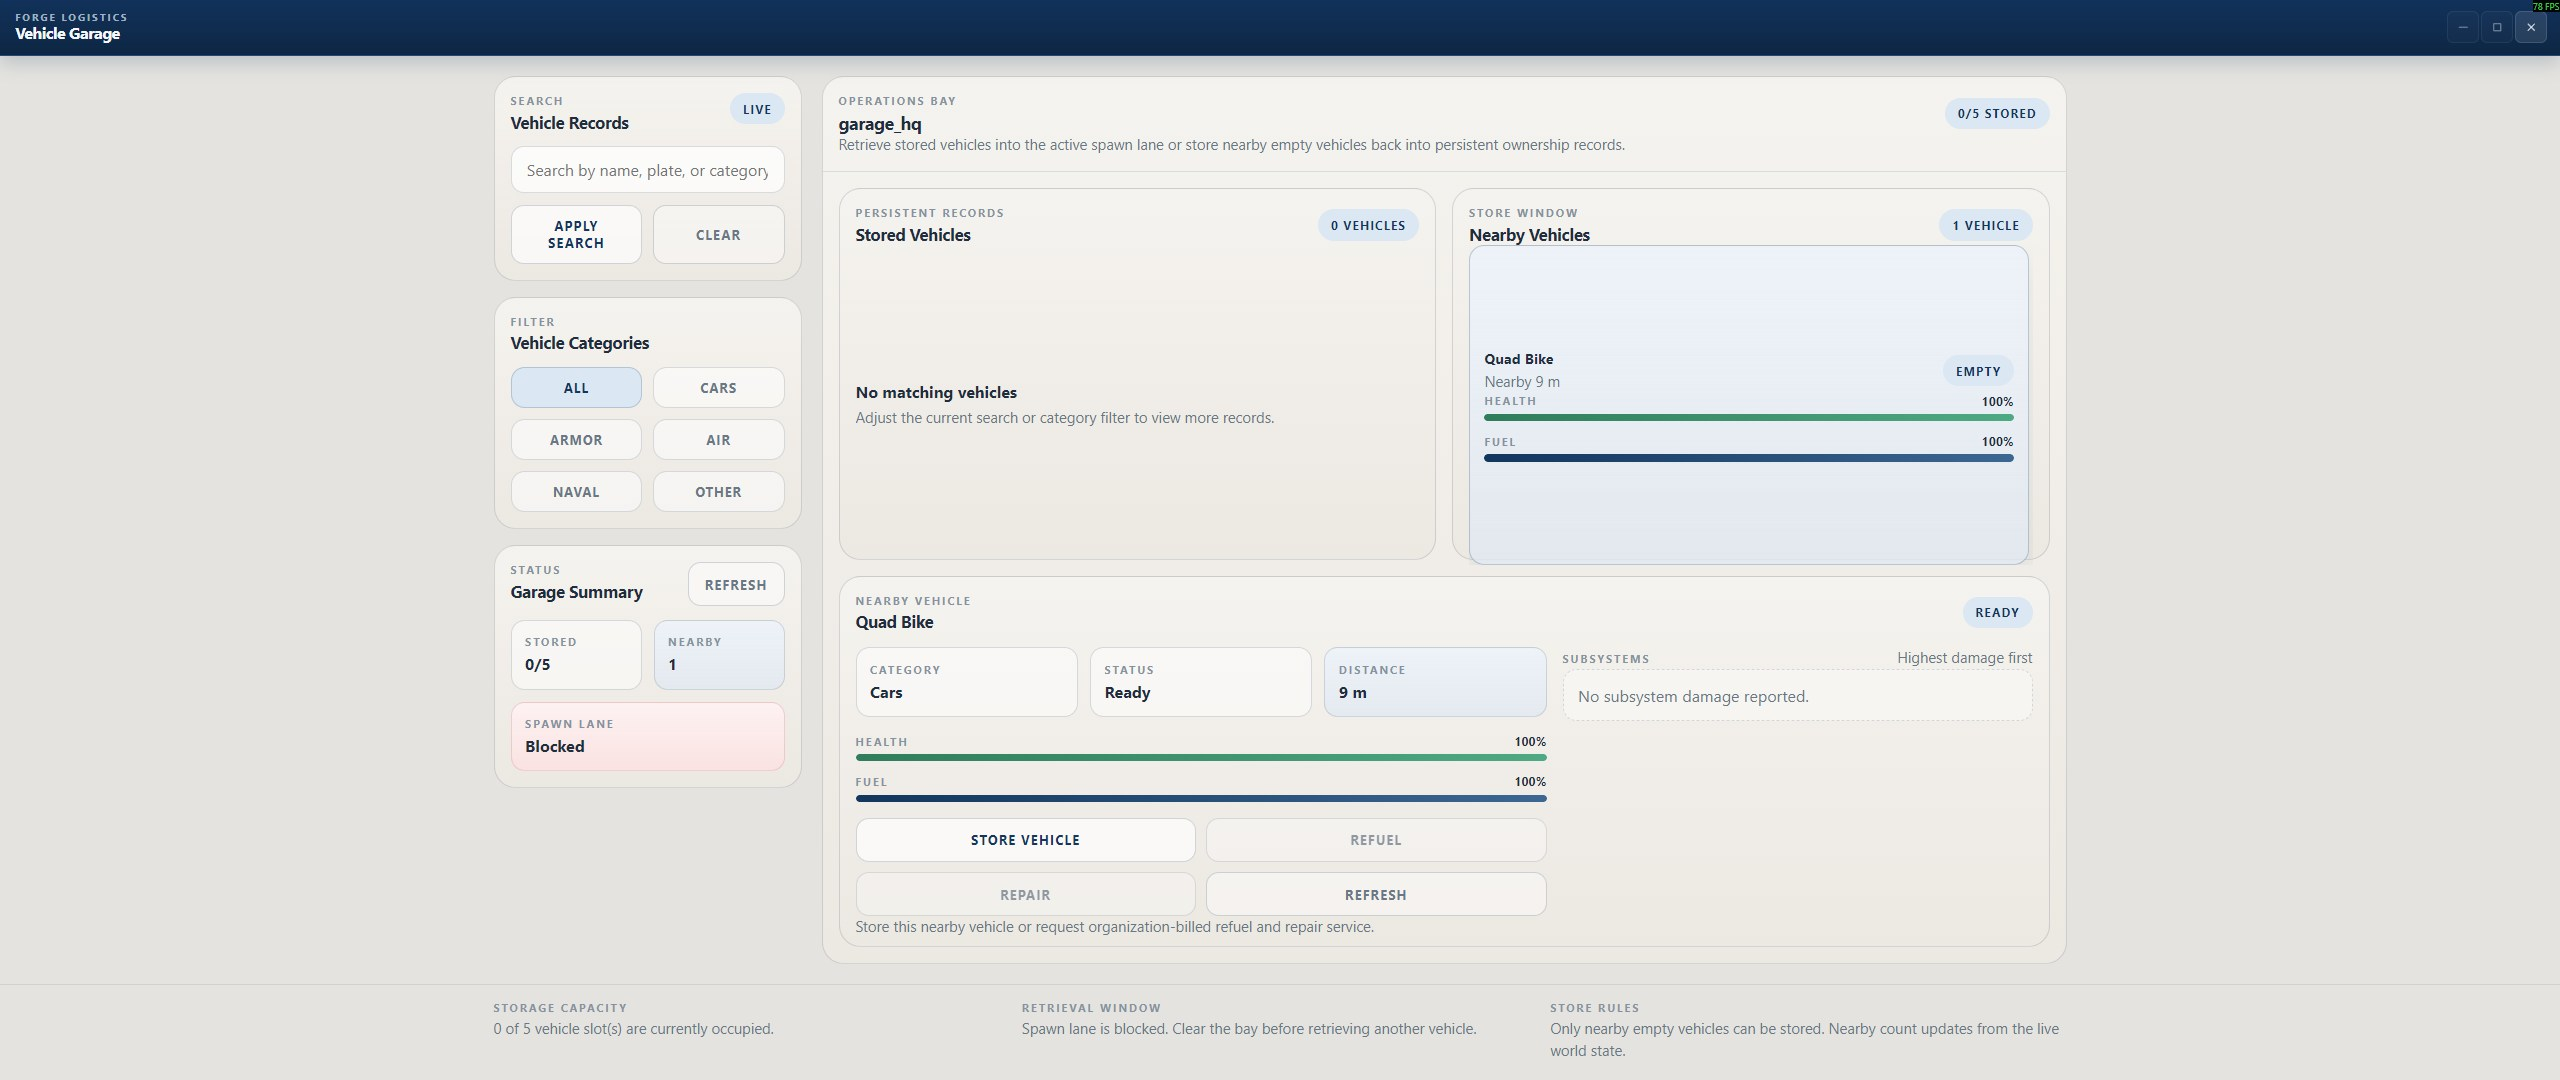
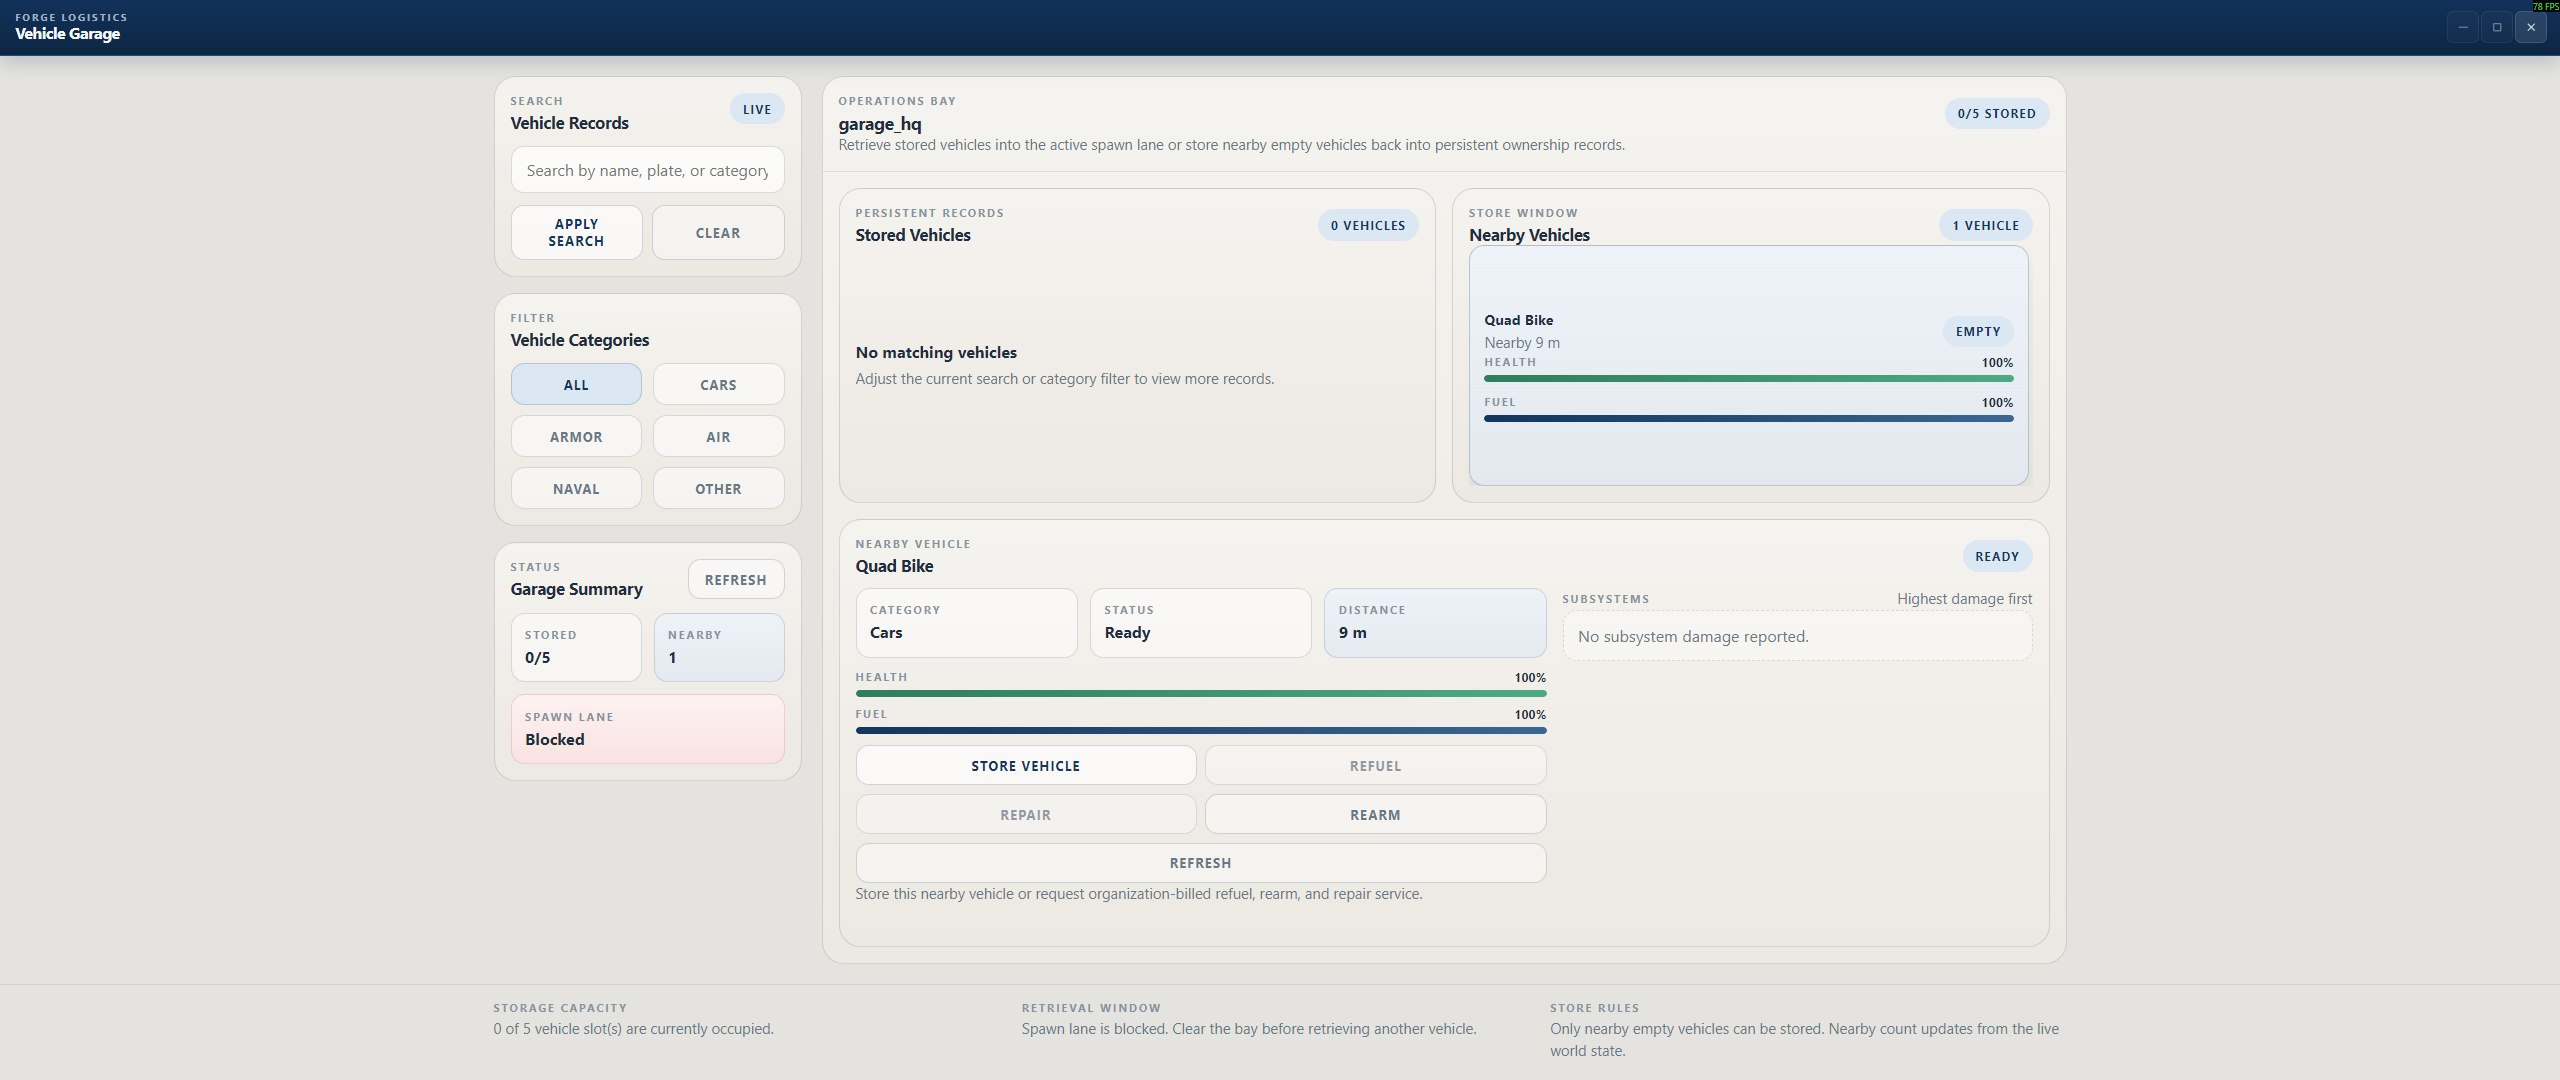
fix: adjust CSS styles for improved layout and responsiveness

diff --git a/arma/client/addons/garage/ui/src/styles.css b/arma/client/addons/garage/ui/src/styles.css
@@ -163,8 +163,8 @@ button:disabled {
 
 .garage-scroll-body {
     flex: 1;
-    min-height: 20rem;
-    max-height: 24rem;
+    min-height: clamp(10rem, 20vh, 16rem);
+    max-height: clamp(12rem, 25vh, 19rem);
     overflow: auto;
     display: grid;
     gap: 0.8rem;
@@ -172,7 +172,7 @@ button:disabled {
 }
 
 .garage-detail-body {
-    padding-top: 0.95rem;
+    padding-top: 0.75rem;
 }
 
 .garage-detail-grid {
@@ -195,7 +195,7 @@ button:disabled {
 
 .garage-detail-meta {
     grid-template-columns: repeat(3, minmax(0, 1fr));
-    margin-bottom: 1rem;
+    margin-bottom: 0.7rem;
 }
 
 .garage-summary-grid {
@@ -209,7 +209,7 @@ button:disabled {
 .garage-search-actions,
 .garage-action-row {
     grid-template-columns: repeat(2, minmax(0, 1fr));
-    gap: 0.65rem;
+    gap: 0.55rem;
 }
 
 .garage-category-grid {
@@ -235,8 +235,8 @@ button:disabled {
 
 .garage-meter-stack {
     display: grid;
-    gap: 0.75rem;
-    margin-bottom: 1rem;
+    gap: 0.55rem;
+    margin-bottom: 0.7rem;
 }
 
 .garage-eyebrow,
@@ -451,8 +451,8 @@ button:disabled {
 }
 
 .garage-btn {
-    min-height: 2.75rem;
-    padding: 0.72rem 1rem;
+    min-height: 2.5rem;
+    padding: 0.62rem 1rem;
     border-radius: 0.8rem;
     border: 1px solid var(--garage-border-strong);
     font-size: 0.82rem;

diff --git a/arma/client/addons/garage/ui/_site/garage-ui.css b/arma/client/addons/garage/ui/_site/garage-ui.css
@@ -1,1 +1,1 @@
-:root{--garage-shell-bg:#e4e3df;--garage-surface:#f5f3ef;--garage-surface-alt:#ece8e2;--garage-border:#4a5b6e33;--garage-border-strong:#142e4f2e;--garage-text-main:#1f2d3d;--garage-text-muted:#6a7787;--garage-text-subtle:#8792a0;--garage-accent:#12365d;--garage-accent-soft:#dbe7f3;--garage-accent-line:#12365d1f;--garage-warning:#8f5f26}*{box-sizing:border-box}html,body{width:100%;height:100%;margin:0;overflow:hidden}body{color:var(--garage-text-main);background:var(--garage-shell-bg);font-family:Segoe UI,Trebuchet MS,sans-serif}button,input{font:inherit}button{cursor:pointer}button:disabled{cursor:not-allowed;opacity:.72}:focus-visible{outline-offset:2px;outline:2px solid #12365d59}#app{width:100%;height:100%}.garage-shell{background:var(--garage-shell-bg);flex-direction:column;width:100%;height:100%;display:flex;overflow:hidden}.garage-layout{flex:1;grid-template-columns:308px minmax(0,1fr);gap:1.25rem;width:min(100%,1613px);min-height:0;margin:0 auto;padding:1.25rem;display:grid}.garage-sidebar,.garage-main{flex-direction:column;gap:1rem;min-height:0;display:flex}.garage-main{overflow:hidden}.garage-module,.garage-panel,.garage-card{background:linear-gradient(180deg, var(--garage-surface) 0%, var(--garage-surface-alt) 100%);border:1px solid var(--garage-border);border-radius:1.35rem}.garage-module,.garage-card{padding:1rem}.garage-module{align-content:start;gap:.85rem;display:grid}.garage-panel{flex-direction:column;flex:auto;min-height:0;display:flex;overflow:hidden}.garage-panel-header,.garage-module-header,.garage-card-header{justify-content:space-between;align-items:center;gap:1rem;display:flex}.garage-panel-header{padding:1rem 1rem 0}.garage-module-header{align-items:flex-start}.garage-panel-intro{border-bottom:1px solid var(--garage-accent-line);padding:0 1rem 1rem}.garage-dashboard{flex:1;grid-template-columns:minmax(0,1fr) minmax(0,1fr);align-items:stretch;gap:1rem;min-height:0;padding:1rem;display:grid}.garage-list-card,.garage-detail-card{flex-direction:column;min-height:0;display:flex}.garage-detail-card{grid-column:1/-1}.garage-scroll-body{flex:1;gap:.8rem;min-height:20rem;max-height:24rem;padding-right:.2rem;display:grid;overflow:auto}.garage-detail-body{padding-top:.95rem}.garage-detail-grid{grid-template-columns:minmax(0,1.25fr) minmax(280px,.85fr);gap:1rem;display:grid}.garage-detail-meta,.garage-summary-grid,.garage-search-actions,.garage-category-grid,.garage-action-row,.garage-inline-meters,.garage-hitpoint-grid,.garage-footer{gap:.75rem;display:grid}.garage-detail-meta{grid-template-columns:repeat(3,minmax(0,1fr));margin-bottom:1rem}.garage-summary-grid{grid-template-columns:repeat(2,minmax(0,1fr))}.garage-summary-grid>:last-child{grid-column:1/-1}.garage-search-actions,.garage-action-row,.garage-category-grid{grid-template-columns:repeat(2,minmax(0,1fr));gap:.65rem}.garage-action-refresh{grid-column:1/-1}.garage-footer-bar{border-top:1px solid #12365d1a;width:100%}.garage-footer{grid-template-columns:repeat(3,minmax(0,1fr));width:min(100%,1613px);margin:0 auto;padding:.95rem 1.25rem 1.15rem}.garage-meter-stack{gap:.75rem;margin-bottom:1rem;display:grid}.garage-eyebrow,.garage-footer-title,.garage-stat-label,.garage-meter-label,.garage-hitpoint-selection{letter-spacing:.18em;text-transform:uppercase;color:var(--garage-text-subtle);font-size:.68rem;font-weight:700}.garage-title,.garage-section-title{letter-spacing:-.02em;color:var(--garage-text-main);margin:.16rem 0 0;font-weight:700}.garage-title{font-size:1.1rem}.garage-section-title{font-size:1.05rem}.garage-copy,.garage-detail-note,.garage-empty-copy,.garage-footer-copy,.garage-vehicle-meta,.garage-detail-caption{color:var(--garage-text-muted);margin:0;font-size:.92rem;line-height:1.48}.garage-pill,.garage-badge{letter-spacing:.1em;text-transform:uppercase;background:var(--garage-accent-soft);color:var(--garage-accent);border-radius:999px;justify-content:center;align-items:center;padding:.48rem .8rem;font-size:.74rem;font-weight:700;display:inline-flex}.garage-badge.is-warning{color:var(--garage-warning);background:#f6e2c1e0}.garage-search-form{gap:.75rem;display:grid}.garage-search-input{border:1px solid var(--garage-border);width:100%;height:2.9rem;color:var(--garage-text-main);background:#ffffffbf;border-radius:.8rem;padding:0 .95rem}.garage-stat-card{border:1px solid var(--garage-border);background:#ffffff7a;border-radius:.85rem;flex-direction:column;gap:.3rem;min-width:0;padding:.85rem;display:flex}.garage-stat-card.is-accent{background:linear-gradient(#edf3f9eb 0%,#dfe8f2b8 100%)}.garage-stat-card.is-danger{background:linear-gradient(#fef2f2f2 0%,#fce1e1d1 100%);border-color:#dc979761}.garage-stat-value{color:var(--garage-text-main);overflow-wrap:anywhere;word-break:break-word;font-size:1rem;font-weight:700;line-height:1.3}.garage-chip{border:1px solid var(--garage-border);min-height:2.6rem;color:var(--garage-text-muted);letter-spacing:.08em;text-transform:uppercase;background:#ffffff85;border-radius:.85rem;padding:.68rem .9rem;font-size:.8rem;font-weight:700}.garage-chip.is-active{background:var(--garage-accent-soft);color:var(--garage-accent);border-color:#12365d33}.garage-vehicle-item{border:1px solid var(--garage-border);width:100%;color:inherit;text-align:left;background:#ffffff7a;border-radius:.95rem;padding:.9rem}.garage-vehicle-item.is-selected{background:linear-gradient(#edf3f9f5 0%,#dfe8f2bd 100%);border-color:#12365d3d;box-shadow:0 16px 26px #12365d14}.garage-vehicle-item-head,.garage-meter-label-row,.garage-subsystem-header,.garage-hitpoint-row{justify-content:space-between;align-items:center;gap:.75rem;display:flex}.garage-vehicle-copy,.garage-hitpoint-copy,.garage-footer-block{flex-direction:column;gap:.18rem;min-width:0;display:flex}.garage-vehicle-title,.garage-hitpoint-name,.garage-hitpoint-value{color:var(--garage-text-main);font-size:.9rem;font-weight:700}.garage-meter{gap:.32rem;display:grid}.garage-meter-track{background:#12365d14;border-radius:999px;width:100%;height:.45rem;overflow:hidden}.garage-meter-value{color:var(--garage-text-main);font-size:.78rem;font-weight:700}.garage-meter-fill{border-radius:inherit;height:100%;display:block}.garage-meter-fill.is-health{background:linear-gradient(90deg,#2f7d5b 0%,#4eaa82 100%)}.garage-meter-fill.is-fuel{background:linear-gradient(90deg,#12365d 0%,#3c6792 100%)}.garage-btn{border:1px solid var(--garage-border-strong);letter-spacing:.08em;text-transform:uppercase;border-radius:.8rem;min-height:2.75rem;padding:.72rem 1rem;font-size:.82rem;font-weight:700}.garage-btn-primary{color:var(--garage-accent);background:#ffffffad}.garage-btn-primary:hover{background:#dbe7f3e0}.garage-btn-secondary{color:var(--garage-text-muted);background:#ffffff6b}.garage-btn-secondary:hover{color:var(--garage-text-main);background:#fff9}.garage-hitpoint-row{border:1px solid var(--garage-border);background:#ffffff85;border-radius:.85rem;padding:.72rem .78rem}.garage-detail-empty,.garage-empty-state{flex-direction:column;justify-content:center;align-items:flex-start;min-height:100%;display:flex}.garage-empty-title{color:var(--garage-text-main);margin:0 0 .35rem;font-size:1rem;font-weight:700}.garage-empty-inline{border:1px dashed var(--garage-border);color:var(--garage-text-muted);background:#ffffff5c;border-radius:.85rem;padding:.9rem}.garage-toast-stack{z-index:10;flex-direction:column;gap:.65rem;display:flex;position:fixed;top:1.2rem;right:1.5rem}.garage-toast{border:1px solid var(--garage-border);background:#fff;border-radius:.9rem;max-width:24rem;padding:.85rem 1rem;font-size:.92rem;box-shadow:0 14px 28px #10223824}.garage-toast.is-success{color:#166534;background:#ecfdf5;border-color:#bbf7d0}.garage-toast.is-error{color:#991b1b;background:#fef2f2;border-color:#fecaca}@media (width<=1440px){.garage-layout{grid-template-columns:288px minmax(0,1fr)}.garage-detail-grid{grid-template-columns:1fr}}@media (width<=1120px){.garage-layout{grid-template-columns:1fr;overflow:auto}.garage-main,.garage-sidebar{min-height:auto}.garage-dashboard{grid-template-columns:1fr}.garage-detail-card{grid-column:auto}.garage-scroll-body{min-height:16rem;max-height:none}.garage-footer{grid-template-columns:1fr}}
+:root{--garage-shell-bg:#e4e3df;--garage-surface:#f5f3ef;--garage-surface-alt:#ece8e2;--garage-border:#4a5b6e33;--garage-border-strong:#142e4f2e;--garage-text-main:#1f2d3d;--garage-text-muted:#6a7787;--garage-text-subtle:#8792a0;--garage-accent:#12365d;--garage-accent-soft:#dbe7f3;--garage-accent-line:#12365d1f;--garage-warning:#8f5f26}*{box-sizing:border-box}html,body{width:100%;height:100%;margin:0;overflow:hidden}body{color:var(--garage-text-main);background:var(--garage-shell-bg);font-family:Segoe UI,Trebuchet MS,sans-serif}button,input{font:inherit}button{cursor:pointer}button:disabled{cursor:not-allowed;opacity:.72}:focus-visible{outline-offset:2px;outline:2px solid #12365d59}#app{width:100%;height:100%}.garage-shell{background:var(--garage-shell-bg);flex-direction:column;width:100%;height:100%;display:flex;overflow:hidden}.garage-layout{flex:1;grid-template-columns:308px minmax(0,1fr);gap:1.25rem;width:min(100%,1613px);min-height:0;margin:0 auto;padding:1.25rem;display:grid}.garage-sidebar,.garage-main{flex-direction:column;gap:1rem;min-height:0;display:flex}.garage-main{overflow:hidden}.garage-module,.garage-panel,.garage-card{background:linear-gradient(180deg, var(--garage-surface) 0%, var(--garage-surface-alt) 100%);border:1px solid var(--garage-border);border-radius:1.35rem}.garage-module,.garage-card{padding:1rem}.garage-module{align-content:start;gap:.85rem;display:grid}.garage-panel{flex-direction:column;flex:auto;min-height:0;display:flex;overflow:hidden}.garage-panel-header,.garage-module-header,.garage-card-header{justify-content:space-between;align-items:center;gap:1rem;display:flex}.garage-panel-header{padding:1rem 1rem 0}.garage-module-header{align-items:flex-start}.garage-panel-intro{border-bottom:1px solid var(--garage-accent-line);padding:0 1rem 1rem}.garage-dashboard{flex:1;grid-template-columns:minmax(0,1fr) minmax(0,1fr);align-items:stretch;gap:1rem;min-height:0;padding:1rem;display:grid}.garage-list-card,.garage-detail-card{flex-direction:column;min-height:0;display:flex}.garage-detail-card{grid-column:1/-1}.garage-scroll-body{flex:1;gap:.8rem;min-height:clamp(10rem,20vh,16rem);max-height:clamp(12rem,25vh,19rem);padding-right:.2rem;display:grid;overflow:auto}.garage-detail-body{padding-top:.75rem}.garage-detail-grid{grid-template-columns:minmax(0,1.25fr) minmax(280px,.85fr);gap:1rem;display:grid}.garage-detail-meta,.garage-summary-grid,.garage-search-actions,.garage-category-grid,.garage-action-row,.garage-inline-meters,.garage-hitpoint-grid,.garage-footer{gap:.75rem;display:grid}.garage-detail-meta{grid-template-columns:repeat(3,minmax(0,1fr));margin-bottom:.7rem}.garage-summary-grid{grid-template-columns:repeat(2,minmax(0,1fr))}.garage-summary-grid>:last-child{grid-column:1/-1}.garage-search-actions,.garage-action-row{grid-template-columns:repeat(2,minmax(0,1fr));gap:.55rem}.garage-category-grid{grid-template-columns:repeat(2,minmax(0,1fr));gap:.65rem}.garage-action-refresh{grid-column:1/-1}.garage-footer-bar{border-top:1px solid #12365d1a;width:100%}.garage-footer{grid-template-columns:repeat(3,minmax(0,1fr));width:min(100%,1613px);margin:0 auto;padding:.95rem 1.25rem 1.15rem}.garage-meter-stack{gap:.55rem;margin-bottom:.7rem;display:grid}.garage-eyebrow,.garage-footer-title,.garage-stat-label,.garage-meter-label,.garage-hitpoint-selection{letter-spacing:.18em;text-transform:uppercase;color:var(--garage-text-subtle);font-size:.68rem;font-weight:700}.garage-title,.garage-section-title{letter-spacing:-.02em;color:var(--garage-text-main);margin:.16rem 0 0;font-weight:700}.garage-title{font-size:1.1rem}.garage-section-title{font-size:1.05rem}.garage-copy,.garage-detail-note,.garage-empty-copy,.garage-footer-copy,.garage-vehicle-meta,.garage-detail-caption{color:var(--garage-text-muted);margin:0;font-size:.92rem;line-height:1.48}.garage-pill,.garage-badge{letter-spacing:.1em;text-transform:uppercase;background:var(--garage-accent-soft);color:var(--garage-accent);border-radius:999px;justify-content:center;align-items:center;padding:.48rem .8rem;font-size:.74rem;font-weight:700;display:inline-flex}.garage-badge.is-warning{color:var(--garage-warning);background:#f6e2c1e0}.garage-search-form{gap:.75rem;display:grid}.garage-search-input{border:1px solid var(--garage-border);width:100%;height:2.9rem;color:var(--garage-text-main);background:#ffffffbf;border-radius:.8rem;padding:0 .95rem}.garage-stat-card{border:1px solid var(--garage-border);background:#ffffff7a;border-radius:.85rem;flex-direction:column;gap:.3rem;min-width:0;padding:.85rem;display:flex}.garage-stat-card.is-accent{background:linear-gradient(#edf3f9eb 0%,#dfe8f2b8 100%)}.garage-stat-card.is-danger{background:linear-gradient(#fef2f2f2 0%,#fce1e1d1 100%);border-color:#dc979761}.garage-stat-value{color:var(--garage-text-main);overflow-wrap:anywhere;word-break:break-word;font-size:1rem;font-weight:700;line-height:1.3}.garage-chip{border:1px solid var(--garage-border);min-height:2.6rem;color:var(--garage-text-muted);letter-spacing:.08em;text-transform:uppercase;background:#ffffff85;border-radius:.85rem;padding:.68rem .9rem;font-size:.8rem;font-weight:700}.garage-chip.is-active{background:var(--garage-accent-soft);color:var(--garage-accent);border-color:#12365d33}.garage-vehicle-item{border:1px solid var(--garage-border);width:100%;color:inherit;text-align:left;background:#ffffff7a;border-radius:.95rem;padding:.9rem}.garage-vehicle-item.is-selected{background:linear-gradient(#edf3f9f5 0%,#dfe8f2bd 100%);border-color:#12365d3d;box-shadow:0 16px 26px #12365d14}.garage-vehicle-item-head,.garage-meter-label-row,.garage-subsystem-header,.garage-hitpoint-row{justify-content:space-between;align-items:center;gap:.75rem;display:flex}.garage-vehicle-copy,.garage-hitpoint-copy,.garage-footer-block{flex-direction:column;gap:.18rem;min-width:0;display:flex}.garage-vehicle-title,.garage-hitpoint-name,.garage-hitpoint-value{color:var(--garage-text-main);font-size:.9rem;font-weight:700}.garage-meter{gap:.32rem;display:grid}.garage-meter-track{background:#12365d14;border-radius:999px;width:100%;height:.45rem;overflow:hidden}.garage-meter-value{color:var(--garage-text-main);font-size:.78rem;font-weight:700}.garage-meter-fill{border-radius:inherit;height:100%;display:block}.garage-meter-fill.is-health{background:linear-gradient(90deg,#2f7d5b 0%,#4eaa82 100%)}.garage-meter-fill.is-fuel{background:linear-gradient(90deg,#12365d 0%,#3c6792 100%)}.garage-btn{border:1px solid var(--garage-border-strong);letter-spacing:.08em;text-transform:uppercase;border-radius:.8rem;min-height:2.5rem;padding:.62rem 1rem;font-size:.82rem;font-weight:700}.garage-btn-primary{color:var(--garage-accent);background:#ffffffad}.garage-btn-primary:hover{background:#dbe7f3e0}.garage-btn-secondary{color:var(--garage-text-muted);background:#ffffff6b}.garage-btn-secondary:hover{color:var(--garage-text-main);background:#fff9}.garage-hitpoint-row{border:1px solid var(--garage-border);background:#ffffff85;border-radius:.85rem;padding:.72rem .78rem}.garage-detail-empty,.garage-empty-state{flex-direction:column;justify-content:center;align-items:flex-start;min-height:100%;display:flex}.garage-empty-title{color:var(--garage-text-main);margin:0 0 .35rem;font-size:1rem;font-weight:700}.garage-empty-inline{border:1px dashed var(--garage-border);color:var(--garage-text-muted);background:#ffffff5c;border-radius:.85rem;padding:.9rem}.garage-toast-stack{z-index:10;flex-direction:column;gap:.65rem;display:flex;position:fixed;top:1.2rem;right:1.5rem}.garage-toast{border:1px solid var(--garage-border);background:#fff;border-radius:.9rem;max-width:24rem;padding:.85rem 1rem;font-size:.92rem;box-shadow:0 14px 28px #10223824}.garage-toast.is-success{color:#166534;background:#ecfdf5;border-color:#bbf7d0}.garage-toast.is-error{color:#991b1b;background:#fef2f2;border-color:#fecaca}@media (width<=1440px){.garage-layout{grid-template-columns:288px minmax(0,1fr)}.garage-detail-grid{grid-template-columns:1fr}}@media (width<=1120px){.garage-layout{grid-template-columns:1fr;overflow:auto}.garage-main,.garage-sidebar{min-height:auto}.garage-dashboard{grid-template-columns:1fr}.garage-detail-card{grid-column:auto}.garage-scroll-body{min-height:16rem;max-height:none}.garage-footer{grid-template-columns:1fr}}